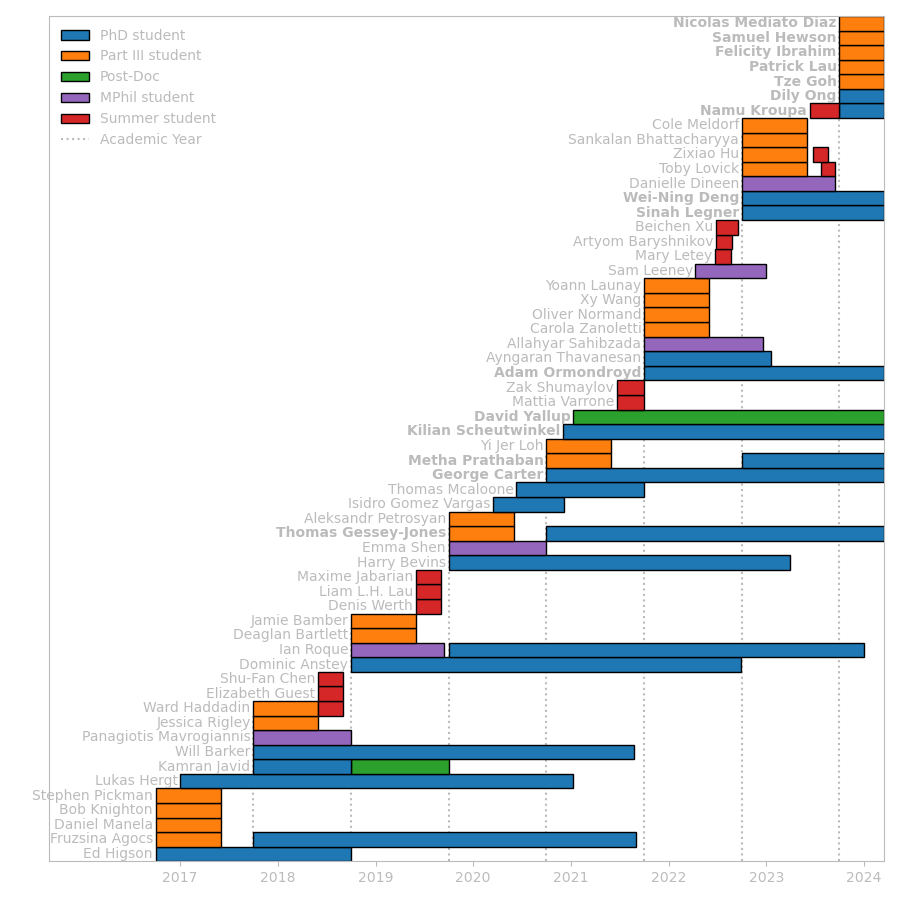
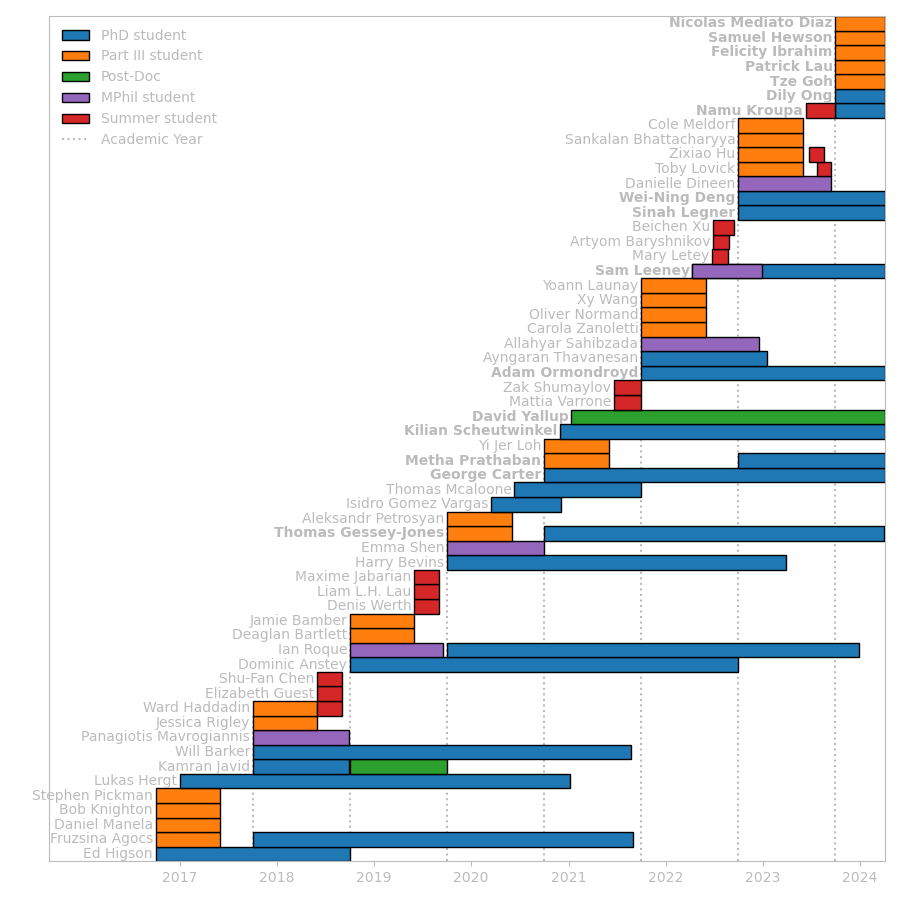
Updated

diff --git a/assets/students/students.html b/assets/students/students.html
@@ -22,6 +22,33 @@
   <h1>Post-Docs</h1>
   <div class="grid">
     <div class="grid-item">
+      <img src="/assets/students/images/thomas_gessey-jones.jpg" />
+    </div>
+    <div class="grid-item">
+      <p>
+        <font size="+2">Thomas Gessey-Jones</font>
+      </p>
+      <p>
+        <ul>
+          <li>Post-Doc from Apr 2024</li>
+          <li>PhD student from Oct 2020 to Mar 2024<ul><li>co-supervised with <a href="https://www.phy.cam.ac.uk/directory/dr-eloy-de-lera-acedo">Eloy de Lera Acedo</a>, <a href="https://www.ast.cam.ac.uk/people/Anastasia.Fialkov">Anastasia Fialkov</a></li></ul></li>
+          <li>Part III student from Oct 2019 to Jun 2020</li>
+          <li>
+            <a href="https://arxiv.org/search/?query=handley%2C+w%3B+Gessey-Jones%2CT&searchtype=author">Shared research papers (9)</a>
+          </li>
+          <li>Links:</li>
+          <ul>
+            <li>
+              <a href="https://www.cavendishradiocosmology.com/">Group webpage</a>
+            </li>
+            <li>
+              <a href="https://arxiv.org/search/?query=T+Gessey-Jones&searchtype=all&abstracts=show&order=-announced_date_first&size=50">arXiv</a>
+            </li>
+          </ul>
+        </ul>
+      </p>
+    </div>
+    <div class="grid-item">
       <img src="/assets/students/images/david_yallup.jpg" />
     </div>
     <div class="grid-item">
@@ -31,6 +58,9 @@
       <p>
         <ul>
           <li>Post-Doc from Jan 2021</li>
+          <li>
+            <a href="https://arxiv.org/search/?query=handley%2C+w%3B+Yallup%2CD&searchtype=author">Shared research papers (5)</a>
+          </li>
           <li>Links:</li>
           <ul>
             <li>
@@ -59,6 +89,9 @@
         <ul>
           <li>PhD student from Oct 2023<ul><li>co-supervised with <a href="http://www.eng.cam.ac.uk/profiles/gc121">Gábor Csányi</a></li></ul></li>
           <li>Summer student from Jun 2023 to Sep 2023</li>
+          <li>
+            <a href="https://arxiv.org/search/?query=handley%2C+w%3B+Kroupa%2CN&searchtype=author">Shared research papers (2)</a>
+          </li>
         </ul>
       </p>
     </div>
@@ -99,6 +132,9 @@
         <ul>
           <li>PhD student from Oct 2022</li>
           <li>Part III student from Oct 2020 to Jun 2021</li>
+          <li>
+            <a href="https://arxiv.org/search/?query=handley%2C+w%3B+Prathaban%2CM&searchtype=author">Shared research papers (1)</a>
+          </li>
         </ul>
       </p>
     </div>
@@ -116,6 +152,32 @@
       </p>
     </div>
     <div class="grid-item">
+      <img src="/assets/students/images/sam_leeney.jpg" />
+    </div>
+    <div class="grid-item">
+      <p>
+        <font size="+2">Sam Leeney</font>
+      </p>
+      <p>
+        <ul>
+          <li>PhD student from Apr 2022<ul><li>co-supervised with <a href="https://www.phy.cam.ac.uk/directory/dr-eloy-de-lera-acedo">Eloy de Lera Acedo</a>, <a href="https://harrybevins.co.uk/">Harry Bevins</a></li></ul></li>
+          <li>MPhil student from Apr 2022 to Dec 2022<ul><li>co-supervised with <a href="https://www.phy.cam.ac.uk/directory/dr-eloy-de-lera-acedo">Eloy de Lera Acedo</a></li></ul></li>
+          <li>
+            <a href="https://arxiv.org/search/?query=handley%2C+w%3B+Leeney%2CS&searchtype=author">Shared research papers (2)</a>
+          </li>
+          <li>Links:</li>
+          <ul>
+            <li>
+              <a href="https://github.com/samleeney">Webpage</a>
+            </li>
+            <li>
+              <a href="https://www.cavendishradiocosmology.com/">Group Webpage</a>
+            </li>
+          </ul>
+        </ul>
+      </p>
+    </div>
+    <div class="grid-item">
       <img src="/assets/students/images/adam_ormondroyd.jpg" />
     </div>
     <div class="grid-item">
@@ -125,6 +187,9 @@
       <p>
         <ul>
           <li>PhD student from Oct 2021<ul><li>co-supervised with <a href="https://www.phy.cam.ac.uk/directory/lasenbya">Anthony Lasenby</a>, <a href="https://www.phy.cam.ac.uk/directory/hobsonm">Mike Hobson</a></li></ul></li>
+          <li>
+            <a href="https://arxiv.org/search/?query=handley%2C+w%3B+Ormondroyd%2CA&searchtype=author">Shared research papers (1)</a>
+          </li>
           <li>Links:</li>
           <ul>
             <li>
@@ -147,6 +212,9 @@
       <p>
         <ul>
           <li>PhD student from Dec 2020<ul><li>co-supervised with <a href="https://www.phy.cam.ac.uk/directory/dr-eloy-de-lera-acedo">Eloy de Lera Acedo</a></li></ul></li>
+          <li>
+            <a href="https://arxiv.org/search/?query=handley%2C+w%3B+Scheutwinkel%2CK&searchtype=author">Shared research papers (5)</a>
+          </li>
           <li>Links:</li>
           <ul>
             <li>
@@ -154,35 +222,6 @@
             </li>
             <li>
               <a href="https://www.cavendishradiocosmology.com/">Group webpage</a>
-            </li>
-          </ul>
-        </ul>
-      </p>
-    </div>
-    <div class="grid-item">
-      <img src="/assets/students/images/thomas_gessey-jones.jpg" />
-    </div>
-    <div class="grid-item">
-      <p>
-        <font size="+2">Thomas Gessey-Jones</font>
-      </p>
-      <p>
-        <ul>
-          <li>PhD student from Oct 2020<ul><li>co-supervised with <a href="https://www.phy.cam.ac.uk/directory/dr-eloy-de-lera-acedo">Eloy de Lera Acedo</a>, <a href="https://www.ast.cam.ac.uk/people/Anastasia.Fialkov">Anastasia Fialkov</a></li></ul></li>
-          <li>Part III student from Oct 2019 to Jun 2020</li>
-<<<<<<< HEAD
-=======
-          <li>
-            <a href="https://arxiv.org/search/?query=handley%2C+w%3B+Gessey-Jones%2CT&searchtype=author">Shared research papers (9)</a>
-          </li>
->>>>>>> 6a6dd5774b4427f6fb7c147cc32bbba32e0c99f4
-          <li>Links:</li>
-          <ul>
-            <li>
-              <a href="https://www.cavendishradiocosmology.com/">Group webpage</a>
-            </li>
-            <li>
-              <a href="https://arxiv.org/search/?query=T+Gessey-Jones&searchtype=all&abstracts=show&order=-announced_date_first&size=50">arXiv</a>
             </li>
           </ul>
         </ul>
@@ -235,6 +274,9 @@
         <ul>
           <li>Post-Doc from Oct 2018 to Oct 2019</li>
           <li>PhD student from Oct 2017 to Sep 2018</li>
+          <li>
+            <a href="https://arxiv.org/search/?query=handley%2C+w%3B+Javid%2CK&searchtype=author">Shared research papers (2)</a>
+          </li>
           <li>Links:</li>
           <ul>
             <li>
@@ -266,6 +308,9 @@
       <p>
         <ul>
           <li>PhD student from Oct 2021 to Jan 2023<ul><li>co-supervised with <a href="https://www.nottingham.ac.uk/physics/people/david.stefanyszyn">David Stefanyszyn</a></li></ul></li>
+          <li>
+            <a href="https://arxiv.org/search/?query=handley%2C+w%3B+Thavanesan%2CA&searchtype=author">Shared research papers (1)</a>
+          </li>
         </ul>
       </p>
     </div>
@@ -322,6 +367,9 @@
       <p>
         <ul>
           <li>PhD student from Oct 2019 to Mar 2023<ul><li>co-supervised with <a href="https://www.phy.cam.ac.uk/directory/dr-eloy-de-lera-acedo">Eloy de Lera Acedo</a>, <a href="https://www.ast.cam.ac.uk/people/Anastasia.Fialkov">Anastasia Fialkov</a></li></ul></li>
+          <li>
+            <a href="https://arxiv.org/search/?query=handley%2C+w%3B+Bevins%2CH&searchtype=author">Shared research papers (12)</a>
+          </li>
           <li>Links:</li>
           <ul>
             <li>
@@ -356,6 +404,9 @@
         <ul>
           <li>PhD student from Oct 2019 to Dec 2023<ul><li>co-supervised with <a href="https://www.phy.cam.ac.uk/staff/dr-nima-razavi-ghods">Nima Razavi-Ghods</a></li></ul></li>
           <li>MPhil student from Oct 2018 to Sep 2019<ul><li>co-supervised with <a href="https://www.phy.cam.ac.uk/staff/dr-nima-razavi-ghods">Nima Razavi-Ghods</a></li></ul></li>
+          <li>
+            <a href="https://arxiv.org/search/?query=handley%2C+w%3B+Roque%2CI&searchtype=author">Shared research papers (4)</a>
+          </li>
           <li>Links:</li>
           <ul>
             <li>
@@ -375,6 +426,9 @@
       <p>
         <ul>
           <li>PhD student from Oct 2018 to Sep 2022<ul><li>co-supervised with <a href="https://www.phy.cam.ac.uk/directory/dr-eloy-de-lera-acedo">Eloy de Lera Acedo</a></li></ul></li>
+          <li>
+            <a href="https://arxiv.org/search/?query=handley%2C+w%3B+Anstey%2CD&searchtype=author">Shared research papers (8)</a>
+          </li>
           <li>Subsequent career:</li>
           <ul>
             <li>Oct 2022: Postdoc at Cambridge (UK)</li>
@@ -393,6 +447,9 @@
         <ul>
           <li>PhD student from Oct 2017 to Sep 2021<ul><li>co-supervised with <a href="https://www.phy.cam.ac.uk/directory/lasenbya">Anthony Lasenby</a>, <a href="https://www.phy.cam.ac.uk/directory/hobsonm">Mike Hobson</a></li></ul></li>
           <li>Part III student from Oct 2016 to Jun 2017</li>
+          <li>
+            <a href="https://arxiv.org/search/?query=handley%2C+w%3B+Agocs%2CF&searchtype=author">Shared research papers (6)</a>
+          </li>
           <li>Links:</li>
           <ul>
             <li>
@@ -419,6 +476,9 @@
       <p>
         <ul>
           <li>PhD student from Oct 2017 to Aug 2021<ul><li>co-supervised with <a href="https://www.phy.cam.ac.uk/directory/lasenbya">Anthony Lasenby</a>, <a href="https://www.phy.cam.ac.uk/directory/hobsonm">Mike Hobson</a></li></ul></li>
+          <li>
+            <a href="https://arxiv.org/search/?query=handley%2C+w%3B+Barker%2CW&searchtype=author">Shared research papers (4)</a>
+          </li>
           <li>Links:</li>
           <ul>
             <li>
@@ -442,6 +502,9 @@
       <p>
         <ul>
           <li>PhD student from Jan 2017 to Jan 2021<ul><li>co-supervised with <a href="https://www.phy.cam.ac.uk/directory/lasenbya">Anthony Lasenby</a>, <a href="https://www.phy.cam.ac.uk/directory/hobsonm">Mike Hobson</a></li></ul></li>
+          <li>
+            <a href="https://arxiv.org/search/?query=handley%2C+w%3B+Hergt%2CL&searchtype=author">Shared research papers (5)</a>
+          </li>
           <li>Links:</li>
           <ul>
             <li>
@@ -465,6 +528,9 @@
       <p>
         <ul>
           <li>PhD student from Oct 2016 to Oct 2018<ul><li>co-supervised with <a href="https://www.phy.cam.ac.uk/directory/lasenbya">Anthony Lasenby</a>, <a href="https://www.phy.cam.ac.uk/directory/hobsonm">Mike Hobson</a></li></ul></li>
+          <li>
+            <a href="https://arxiv.org/search/?query=handley%2C+w%3B+Higson%2CE&searchtype=author">Shared research papers (6)</a>
+          </li>
           <li>Links:</li>
           <ul>
             <li>
@@ -494,6 +560,9 @@
       <p>
         <ul>
           <li>MPhil student from Oct 2022 to Sep 2023</li>
+          <li>
+            <a href="https://arxiv.org/search/?query=handley%2C+w%3B+Dineen%2CD&searchtype=author">Shared research papers (1)</a>
+          </li>
           <li>Links:</li>
           <ul>
             <li>
@@ -506,28 +575,6 @@
           <li>Subsequent career:</li>
           <ul>
             <li>Oct 2023: PhD in Cosmology, Toronto</li>
-          </ul>
-        </ul>
-      </p>
-    </div>
-    <div class="grid-item">
-      <img src="/assets/students/images/sam_leeney.jpg" />
-    </div>
-    <div class="grid-item">
-      <p>
-        <font size="+2">Sam Leeney</font>
-      </p>
-      <p>
-        <ul>
-          <li>MPhil student from Apr 2022 to Dec 2022<ul><li>co-supervised with <a href="https://www.phy.cam.ac.uk/directory/dr-eloy-de-lera-acedo">Eloy de Lera Acedo</a></li></ul></li>
-          <li>Links:</li>
-          <ul>
-            <li>
-              <a href="https://github.com/samleeney">Webpage</a>
-            </li>
-            <li>
-              <a href="https://www.cavendishradiocosmology.com/">Group Webpage</a>
-            </li>
           </ul>
         </ul>
       </p>
@@ -555,6 +602,9 @@
       <p>
         <ul>
           <li>MPhil student from Oct 2019 to Sep 2020<ul><li>co-supervised with <a href="https://www.phy.cam.ac.uk/directory/dr-eloy-de-lera-acedo">Eloy de Lera Acedo</a>, <a href="https://www.ast.cam.ac.uk/people/Anastasia.Fialkov">Anastasia Fialkov</a></li></ul></li>
+          <li>
+            <a href="https://arxiv.org/search/?query=handley%2C+w%3B+Shen%2CE&searchtype=author">Shared research papers (4)</a>
+          </li>
           <li>Subsequent career:</li>
           <ul>
             <li>Oct 2021: PhD in Radio astronomy, Cambridge</li>
@@ -595,6 +645,9 @@
         <ul>
           <li>Part III student from Oct 2022 to Jun 2023</li>
           <li>Summer student from Jun 2023 to Aug 2023</li>
+          <li>
+            <a href="https://arxiv.org/search/?query=handley%2C+w%3B+Hu%2CZ&searchtype=author">Shared research papers (1)</a>
+          </li>
         </ul>
       </p>
     </div>
@@ -737,6 +790,9 @@
       <p>
         <ul>
           <li>Part III student from Oct 2019 to Jun 2020</li>
+          <li>
+            <a href="https://arxiv.org/search/?query=handley%2C+w%3B+Petrosyan%2CA&searchtype=author">Shared research papers (1)</a>
+          </li>
           <li>Subsequent career:</li>
           <ul>
             <li>Oct 2020: Lead cryptography engineer, Armenia</li>
@@ -754,6 +810,9 @@
       <p>
         <ul>
           <li>Part III student from Oct 2018 to Jun 2019</li>
+          <li>
+            <a href="https://arxiv.org/search/?query=handley%2C+w%3B+Bartlett%2CD&searchtype=author">Shared research papers (2)</a>
+          </li>
           <li>Links:</li>
           <ul>
             <li>
@@ -781,6 +840,9 @@
       <p>
         <ul>
           <li>Part III student from Oct 2018 to Jun 2019</li>
+          <li>
+            <a href="https://arxiv.org/search/?query=handley%2C+w%3B+Bamber%2CJ&searchtype=author">Shared research papers (1)</a>
+          </li>
           <li>Subsequent career:</li>
           <ul>
             <li>Oct 2019: PhD in Astrophysics, Oxford</li>
@@ -822,6 +884,9 @@
         <ul>
           <li>Part III student from Oct 2017 to Jun 2018</li>
           <li>Summer student from Jun 2018 to Sep 2018</li>
+          <li>
+            <a href="https://arxiv.org/search/?query=handley%2C+w%3B+Haddadin%2CW&searchtype=author">Shared research papers (1)</a>
+          </li>
           <li>Subsequent career:</li>
           <ul>
             <li>Oct 2018: PhD in Particle physics theory, DAMTP</li>
@@ -886,6 +951,9 @@
       <p>
         <ul>
           <li>Summer student from Jun 2022 to Aug 2022</li>
+          <li>
+            <a href="https://arxiv.org/search/?query=handley%2C+w%3B+Baryshnikov%2CA&searchtype=author">Shared research papers (1)</a>
+          </li>
           <li>Links:</li>
           <ul>
             <li>
@@ -926,6 +994,9 @@
       <p>
         <ul>
           <li>Summer student from Jun 2022 to Aug 2022</li>
+          <li>
+            <a href="https://arxiv.org/search/?query=handley%2C+w%3B+Letey%2CM&searchtype=author">Shared research papers (1)</a>
+          </li>
           <li>Links:</li>
           <ul>
             <li>
@@ -962,6 +1033,9 @@
       <p>
         <ul>
           <li>Summer student from Jun 2021 to Sep 2021</li>
+          <li>
+            <a href="https://arxiv.org/search/?query=handley%2C+w%3B+Shumaylov%2CZ&searchtype=author">Shared research papers (2)</a>
+          </li>
           <li>Subsequent career:</li>
           <ul>
             <li>Oct 2022: PhD in machine learning, DAMTP</li>
@@ -979,6 +1053,9 @@
       <p>
         <ul>
           <li>Summer student from Jun 2019 to Sep 2019</li>
+          <li>
+            <a href="https://arxiv.org/search/?query=handley%2C+w%3B+Werth%2CD&searchtype=author">Shared research papers (1)</a>
+          </li>
           <li>Subsequent career:</li>
           <ul>
             <li>Oct 2019: Masters in Sorbonne, Paris</li>

diff --git a/assets/students/students.py b/assets/students/students.py
@@ -25,6 +25,7 @@ supervisors = [
     Supervisor('David Stefanyszyn',"https://www.nottingham.ac.uk/physics/people/david.stefanyszyn"),
     Supervisor('Suhail Dhawan',"https://www.lucy.cam.ac.uk/fellows/dr-suhail-dhawan"),
     Supervisor('Gábor Csányi',"http://www.eng.cam.ac.uk/profiles/gc121"),
+    Supervisor('Harry Bevins',"https://harrybevins.co.uk/"),
 ]
 
 supervisors = {s.name:s for s in supervisors}
